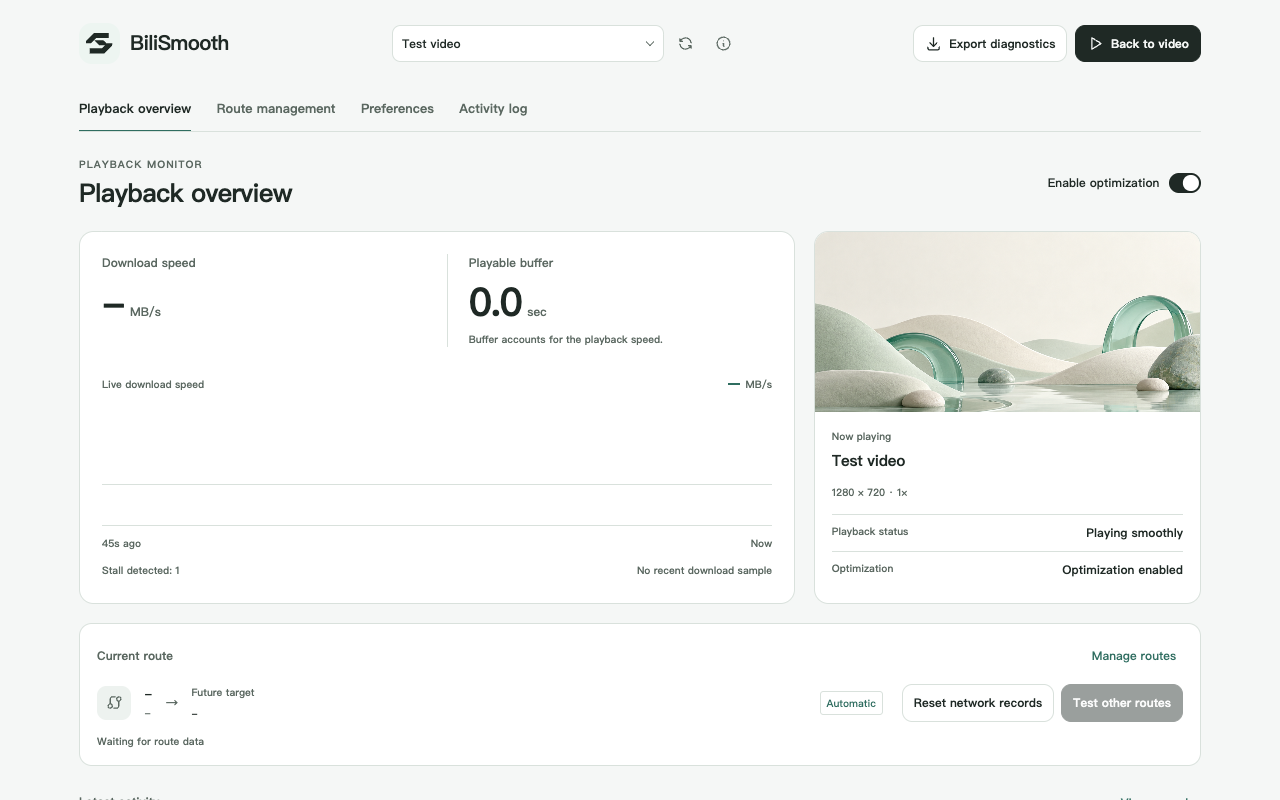
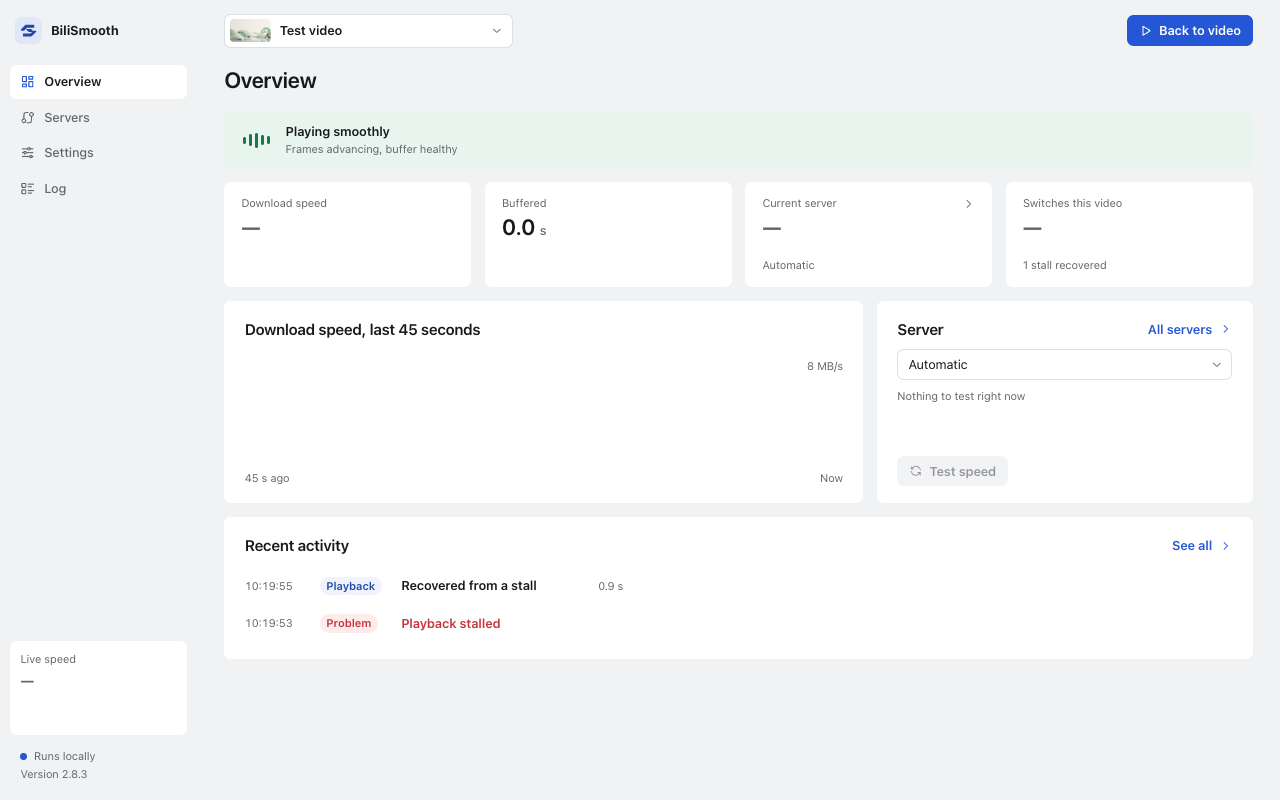
docs(ui): describe the rebuilt UI and its labels

diff --git a/docs/architecture.md b/docs/architecture.md
@@ -7,8 +7,8 @@ The rules that span modules and the contract between the playback core and the U
 - `src/core/`: pure modules, no browser state. Settings, routing policy, media catalog, delivery session, delivery policy, throughput, regional history.
 - `src/page/`: the MAIN-world session. `main.js` is the bundle entry. `session.js` composes the page side (player observer, startup timeline, stall episodes, speed meter, video metadata, transfer accounting, settings sync, event log). `playback-kernel.js` composes the delivery side (request ledger, router, race coordinator, delivery monitor, history store, snapshots) over `request-interceptor.js` (fetch hook, XHR hook, payload hooks, synthetic timeout, sharing guard). `ui-contract.js` and `control-bridge.js` are the only surface the UIs reach.
 - `src/extension/`: `content.js` (isolated world) relays settings and dashboard commands; `background.js` is the settings authority and opens the dashboard tab.
-- `src/ui/` and `src/page/floating-control.js`: the dashboard and the floating control, classic scripts. They read `BiliSmoothRuntime` and `BiliSmoothSettings` and nothing else from the core.
-- Build: esbuild bundles `src/page/main.js` into `playback.js` and appends the UI scripts unchanged; `settings.js` and `settings-migration.js` are bundled as classic scripts for `content.js` and `background.js`. The version is injected at build time from `package.json`; nothing in `src/` carries it.
+- `src/ui/`: the two UIs. `floating/` is the in-page control, `dashboard/` the extension page, `shared/` what both use (the one string table, value formatting, the playback projection, icons, the palette). The floating control reads the `BiliSmoothRuntime` and `BiliSmoothSettings` globals; the dashboard bundles `src/core/settings.js` and reaches the runtime only through `control-bridge.js`. No other core module is read by either UI.
+- Build: esbuild bundles `src/page/main.js` into `playback.js`, then appends the Motion runtime (`src/ui/motion-runtime.js`, a classic script publishing `BiliSmoothMotion`) and the floating bundle. The dashboard is `control/app.js` (bundled from `src/ui/dashboard/main.js`), `control/app.css` (`shared/tokens.css` then `dashboard/dashboard.css`) and `control/index.html`. UI bundles load `.css` and `.svg` as text. `settings.js` and `settings-migration.js` are bundled as classic scripts for `content.js` and `background.js`. The version is injected at build time from `package.json`; nothing in `src/` carries it.
 
 ## Boundaries
 
@@ -25,7 +25,7 @@ The rules that span modules and the contract between the playback core and the U
 - A winner moves the fragment or the whole video. A fragment win leaves the video on its host; a stuck Range retries on the winner through the player's own timeout callback, at most once per Range, and the mechanism disables itself for the page if the player does not retry within 3 s.
 - Fixed routes accept only valid bilivideo UPOS hosts. Akamai is used only through the original signed URL Bilibili served for the current representation, never by swapping the host of a UPOS URL. Native backup URLs and their order are kept.
 - Regional history (`bilismooth.delivery-history.v1.<timezone>|<language>`) only orders challengers. It never sets the current video's target and never causes a request.
-- "Test other routes" saves nothing. "Reset network records" bumps the network epoch: old requests, measurements, fragment hosts and failures stop counting; per-cid switch counts and cooldowns stay; the current region's history is cleared; no probe starts.
+- "Test speed" (`retry`) saves nothing. "Clear speed data" (`resetNetwork`) bumps the network epoch: old requests, measurements, fragment hosts and failures stop counting; per-cid switch counts and cooldowns stay; the current region's history is cleared; no probe starts.
 
 ## Evidence
 
@@ -36,9 +36,19 @@ The rules that span modules and the contract between the playback core and the U
 
 ## Core↔UI contract
 
-`src/page/ui-contract.js` defines everything a UI may read or do; `main.js` publishes it as `globalThis.BiliSmoothRuntime`. The module header lists every field. Add a field there when a UI needs more; never read a core module from the UI.
+`src/page/ui-contract.js` defines everything a UI may read or do; `main.js` publishes it as `globalThis.BiliSmoothRuntime`. The module header lists every field. Add a field there when a UI needs more; the UI reads no playback core module.
 
-- Reads: `getViewState()` is the compact view for every render of the floating control. It reads cached observations only: no DOM scan, no frame sample, no copy of the kernel's session record. `getState()` is the full state for the dashboard, once per second: the view plus `startup`, `startupHistory`, `session`, `counters`, `recoveryAttempts`, `audioHost`, `networkEpoch`, `speedSamples`, `sampledAt`, `events`. `getDiagnostics()` is the export. `getConfig()` is the normalized settings. `subscribe(fn)` fires after every change.
+- Reads: `getViewState()` is the compact view for every render of the floating control. It reads cached observations only: no DOM scan, no frame sample, no copy of the kernel's session record. `getState()` is the full state the dashboard polls: the view plus `startup`, `startupHistory`, `session`, `counters`, `recoveryAttempts`, `audioHost`, `networkEpoch`, `speedSamples`, `sampledAt`, `events`. `getDiagnostics()` is the export. `getConfig()` is the normalized settings. `subscribe(fn)` fires after every change.
 - Commands: `setConfig(patch)` and `flushSettings()` (resolves on the storage receipt, rejects with the storage error), `applyRoute(host)`, `retry()`, `resetNetwork()`, `reload()` (persists, then the caller reloads), `clearEvents()`, `clearData()`. `rewriteUrl(url)` is a check hook, not a UI command.
 - The floating control calls the object directly and uses `BiliSmoothSettings` to validate what it sends. The dashboard sends command names through the content script; `control-bridge.js` maps `COMMANDS` to the contract, awaits `flushSettings()` for `SAVING_COMMANDS`, and replies with the full state (or diagnostics for `diagnostics`). `content.js` forwards any action; the bridge's whitelist decides and answers `unknown-command`. `resetFloatingPosition` is answered by the floating control's own `BiliSmoothFloating.resetPosition`.
 - The UI tests stub exactly this object; a change to its shape changes `test/browser/*` fixtures too.
+
+## UI rules
+
+- Words: every string either UI shows is in `src/ui/shared/strings.js` as `[Chinese, English]`; `translator(lang)` fills `{name}` values. A missing key renders as the key, never blank.
+- Values: `shared/format.js` turns contract values into text and returns null (shown as —) for anything unknown or stale; speed is shown only while its 3 s window is fresh. `shared/playback.js` derives the playback state, the server choice and the speed-test wording; both UIs use it, so they always agree.
+- Server choice: one value, `auto`, `default` or a host. Automatic writes `{ enabled: true, selection: 'auto' }` (an `off` mode becomes `bad-only`); Bilibili default writes `{ enabled: false }` and keeps the other keys; a host goes through `applyRoute`. A stored `mode: 'off'` reads as Bilibili default. "When to replace" is `mode` (`bad-only` or `force`) and shows only for a fixed server.
+- Visual preferences (`accent`, `floatingEntryType`) may reset across versions: `settings.normalize` maps the earlier values that have an equivalent and drops the rest to the default. Playback settings never change shape for the UI.
+- Theme, accent, language and motion: the floating host and the dashboard root carry `data-theme`, `data-accent` and `data-motion`; `shared/tokens.css` defines the palette for both. Motion stops for `prefers-reduced-motion` and for the stored `bilismoothMotion: false`; animations then redraw without travel.
+- Floating control: mounts only on video, bangumi and list playback paths (`/en/` paths are not matched); starts collapsed and collapses on a new media generation, Escape, an outside pointer or full screen; hides in native and web full screen, in hidden documents and in viewports under 44 px. First placement tries the saved corner, then the others, avoiding the player, toolbars, header, dialogs, the right column and visible page controls; a dragged position is kept per site in `localStorage` (`bilismooth.panel.position.v3`) and snaps within 24 px of an edge. It reads `getViewState()` on each `subscribe` notification and never `getState()`.
+- Dashboard: talks to one video tab through the content script, once every 1.2 s while visible, and treats a reply from another build version as a stale tab. With no tab it reads and writes settings through the background.

diff --git a/PRIVACY.en.md b/PRIVACY.en.md
@@ -31,8 +31,8 @@ Preferences remain until changed or deleted. Route history only orders candidate
 ## Network recipients
 
 1. **Bilibili and content delivery networks (CDNs):** playback requests go to media servers supplied by Bilibili or selected by the extension, mainly under `bilivideo.com`, `bilivideo.cn`, `bilivideo.net`, and `akamaized.net`. Requests retain the media path and signed parameters needed for playback. The site's own media requests and credential handling remain subject to the browser and Bilibili.
-2. **Route comparison servers:** no additional route probes run at playback startup. When handling slow or failed video requests automatically, or when you click “Test other routes,” the extension compares up to two candidate CDN routes. Each route uses one Range request for up to 768 KiB of media body data. Each comparison requests at most 1.5 MiB in total (2 × 768 KiB, or 1,572,864 bytes). Normal playback and network protocol overhead are separate. Comparison requests omit browser cookies, but media URLs may contain signed or account-associated parameters.
-3. **Compatibility relay:** by default, matching MCDN media requests use `proxy-tf-all-ws.bilivideo.com`. The complete original media URL, including its query parameters, is sent as a parameter of the relay request. You can change this behavior under “Preferences → Playback compatibility → Compatibility routing.”
+2. **Route comparison servers:** no additional route probes run at playback startup. When handling slow or failed video requests automatically, or when you click “Test speed,” the extension compares up to two candidate CDN routes. Each route uses one Range request for up to 768 KiB of media body data. Each comparison requests at most 1.5 MiB in total (2 × 768 KiB, or 1,572,864 bytes). Normal playback and network protocol overhead are separate. Comparison requests omit browser cookies, but media URLs may contain signed or account-associated parameters.
+3. **Compatibility relay:** by default, matching MCDN media requests use `proxy-tf-all-ws.bilivideo.com`. The complete original media URL, including its query parameters, is sent as a parameter of the relay request. You can change this behavior under “Settings → Advanced → MCDN addresses.”
 4. **Cover image services:** the dashboard loads public video covers from Bilibili image services such as `hdslb.com`.
 
 These services receive ordinary network connection information, including your IP address, request time, and headers the browser sends under its normal rules. An IP address can indicate an approximate region. New CDN and relay addresses selected by the extension use HTTPS. The BiliSmooth developer does not receive these playback requests or control how long Bilibili and its CDNs retain server logs. Their own privacy policies continue to apply.
@@ -45,9 +45,9 @@ Timing and performance information can still reveal viewing periods. You decide 
 
 ## Your controls
 
-- Turn off “Enable optimization” to stop subsequent automatic route selection, request rewriting, and recovery. Refresh the video page to fully apply the change. Playback metrics may still be displayed.
-- “Test other routes” compares candidate routes without saving playback settings. “Reset network records” clears the current session's network state and the current region's route history. Other regions remain unchanged, and the action does not start a route comparison. “Clear records” removes retained activity logs and state samples. The current video's route session records remain until the page session ends.
-- “Reset playback settings” restores playback preferences. It does not erase all storage or downloaded files.
+- Set the server to “Bilibili default” to stop subsequent automatic route selection, request rewriting, and recovery. Refresh the video page to fully apply the change. Playback metrics may still be displayed.
+- “Test speed” compares candidate routes without saving playback settings. “Clear speed data” clears the current session's network state and the current region's route history. Other regions remain unchanged, and the action does not start a route comparison. “Clear” on the Log page removes retained activity logs and state samples. The current video's route session records remain until the page session ends.
+- “Restore defaults” restores playback preferences. It does not erase all storage or downloaded files.
 - Remove the extension and its extension data to delete extension settings. Clear Bilibili website storage separately through the browser's site data controls; doing so may also remove Bilibili login state and other site preferences. Delete exported files from your download location separately.
 - To stop all extension processing on pages, disable or remove it in the browser and refresh open Bilibili pages.
 

diff --git a/PRIVACY.md b/PRIVACY.md
@@ -31,8 +31,8 @@ BiliSmooth 是一个独立的 B 站网页播放辅助扩展，用于选择播放
 ## 哪些服务会收到请求
 
 1. **B 站及内容分发网络（CDN）**：播放请求发往原站提供或扩展选择的媒体服务器，主要包括 `bilivideo.com`、`bilivideo.cn`、`bilivideo.net` 和 `akamaized.net` 下的媒体主机。请求保留播放所需的路径和签名参数。原站自身的媒体请求和凭据处理仍受浏览器及 B 站控制。
-2. **线路对比服务器**：开播时不进行额外线路探测。自动处理慢速或失败的视频请求，或你点击“测试其他线路”时，扩展会对比最多两条候选 CDN 线路。每条线路使用一个 Range 请求，读取最多 768 KiB 媒体正文；每次对比合计最多 1.5 MiB（2 × 768 KiB，即 1,572,864 字节）。普通播放和网络协议开销另计。对比请求不携带浏览器 Cookie，但媒体地址本身仍可能包含签名或账号关联参数。
-3. **兼容中转服务**：默认情况下，匹配的 MCDN 媒体请求通过 `proxy-tf-all-ws.bilivideo.com` 中转。完整原始媒体 URL（包括查询参数）会作为中转请求的参数发出。你可以在“偏好设置 → 播放兼容性 → 兼容线路处理”中改变这一方式。
+2. **线路对比服务器**：开播时不进行额外线路探测。自动处理慢速或失败的视频请求，或你点击“测速”时，扩展会对比最多两条候选 CDN 线路。每条线路使用一个 Range 请求，读取最多 768 KiB 媒体正文；每次对比合计最多 1.5 MiB（2 × 768 KiB，即 1,572,864 字节）。普通播放和网络协议开销另计。对比请求不携带浏览器 Cookie，但媒体地址本身仍可能包含签名或账号关联参数。
+3. **兼容中转服务**：默认情况下，匹配的 MCDN 媒体请求通过 `proxy-tf-all-ws.bilivideo.com` 中转。完整原始媒体 URL（包括查询参数）会作为中转请求的参数发出。你可以在“设置 → 高级 → MCDN 地址”中改变这一方式。
 4. **封面服务**：控制面板会从 B 站的公共图片服务（如 `hdslb.com`）加载视频封面。
 
 上述服务器会收到正常网络连接信息，包括 IP 地址、请求时间以及浏览器按自身规则发送的请求头；IP 地址可能反映大致区域。扩展选择的新 CDN 和中转地址使用 HTTPS。BiliSmooth 开发者不接收这些播放请求，也不能决定 B 站或 CDN 的日志保留时间。使用扩展不会改变这些服务各自的隐私政策。
@@ -45,9 +45,9 @@ BiliSmooth 是一个独立的 B 站网页播放辅助扩展，用于选择播放
 
 ## 你的控制方式
 
-- 关闭“启用优化”停止后续自动选线、请求改写和自动恢复；刷新视频页以完整应用。播放指标仍可显示。
-- “测试其他线路”对比候选线路，不保存播放设置。“重置网络记录”清除当前会话的网络状态和当前地区的线路历史，保留其他地区历史，本身不发起线路对比。“清空记录”删除已保留的运行日志和状态采样；本视频的线路会话记录仍保留到页面会话结束。
-- “重置播放设置”恢复播放偏好，不会清空全部存储或已经下载的文件。
+- 把线路设为“B站默认”会停止后续自动选线、请求改写和自动恢复；刷新视频页以完整应用。播放指标仍可显示。
+- “测速”对比候选线路，不保存播放设置。“清除测速数据”清除当前会话的网络状态和当前地区的线路历史，保留其他地区历史，本身不发起线路对比。记录页的“清空”删除已保留的运行日志和状态采样；本视频的线路会话记录仍保留到页面会话结束。
+- “恢复默认设置”恢复播放偏好，不会清空全部存储或已经下载的文件。
 - 移除扩展并清除其扩展数据，可删除扩展保存的设置。B 站页面存储需要另行通过浏览器站点数据管理清除；这也可能清除 B 站登录状态和其他站点偏好。已导出的文件需要在下载位置删除。
 - 如需停止扩展的全部页面处理，可在浏览器中停用或移除扩展，然后刷新已打开的 B 站页面。
 
